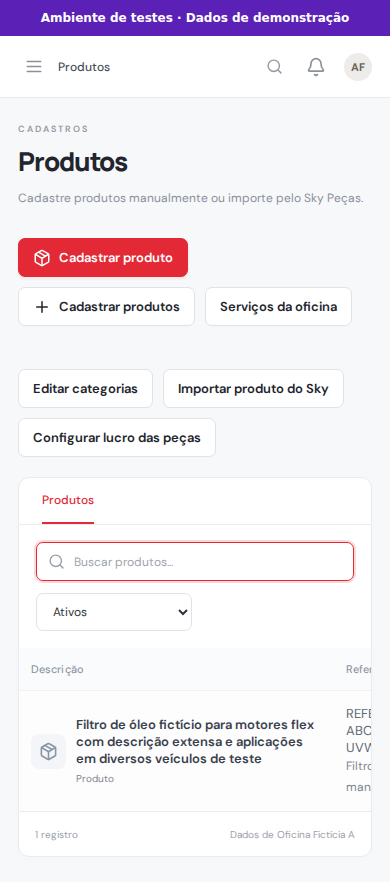
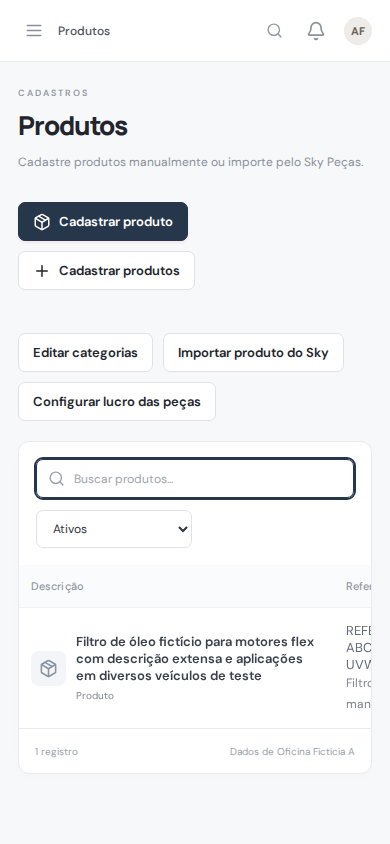
docs(products): update desktop and mobile interface captures

diff --git a/docs/mapeamento-visual/CHECKLIST.md b/docs/mapeamento-visual/CHECKLIST.md
@@ -27,7 +27,7 @@ Estados: capturada, pendente, bloqueada e não aplicável.
 | financeiro-caixa-historico | Financeiro | Histórico do caixa — Sem movimentos confirmados na demonstração. | [`capturas/08-financeiro/historico-caixa.png`](./capturas/08-financeiro/historico-caixa.png) | capturada | 2026-10-22 | não registrado | Captura real com dados fictícios feita em 22/10/2026. O commit de origem não foi registrado; recaptura Playwright e atualização do commit estão pendentes. |
 | financeiro-lucro-pecas | Financeiro | Lucro das peças — Relatório sem vendas no período demonstrado. | [`capturas/08-financeiro/lucro-pecas.png`](./capturas/08-financeiro/lucro-pecas.png) | capturada | 2026-10-22 | não registrado | Captura real com dados fictícios feita em 22/10/2026. O commit de origem não foi registrado; recaptura Playwright e atualização do commit estão pendentes. |
 | financeiro-lucro-servicos | Financeiro | Lucro dos serviços — Relatório sem vendas no período demonstrado. | [`capturas/08-financeiro/lucro-servicos.png`](./capturas/08-financeiro/lucro-servicos.png) | capturada | 2026-10-22 | não registrado | Captura real com dados fictícios feita em 22/10/2026. O commit de origem não foi registrado; recaptura Playwright e atualização do commit estão pendentes. |
-| cadastro-produtos | Cadastros e serviços | Produtos — Tabela de produtos com descrição e referência extensas; largura contida e rolagem interna em telas pequenas. Dados fictícios. | [`capturas/09-cadastros-servicos/produtos.png`](./capturas/09-cadastros-servicos/produtos.png) | capturada | 2026-11-01 | 7ee1fc0f725d2eb39e46c2f4c4c8d8feba33f739 | — |
+| cadastro-produtos | Cadastros e serviços | Produtos — Tela exclusiva de Produtos, sem botão de serviços nem aba redundante; tabela com produto fictício. | [`capturas/09-cadastros-servicos/produtos.png`](./capturas/09-cadastros-servicos/produtos.png) | capturada | 2026-11-01 | 4c93a82e27f05bc3112f1265b6313539b171b347 | — |
 | catalogo-tempos | Cadastros e serviços | Catálogo de tempos — Modelo e serviço fictícios disponíveis para consulta. | [`capturas/09-cadastros-servicos/catalogo-tempos.png`](./capturas/09-cadastros-servicos/catalogo-tempos.png) | capturada | 2026-10-30 | 3792b567510404220727ed26137e813eb84bc96e | — |
 | servico-modelo-ficticio | Cadastros e serviços | Serviços do modelo fictício — Serviço de demonstração e duração de referência. | [`capturas/09-cadastros-servicos/servicos-modelo-ficticio.png`](./capturas/09-cadastros-servicos/servicos-modelo-ficticio.png) | capturada | 2026-10-30 | 3792b567510404220727ed26137e813eb84bc96e | — |
 | servicos-oficina | Cadastros e serviços | Serviços particulares — Lista sem serviços próprios cadastrados. | [`capturas/09-cadastros-servicos/servicos-oficina.png`](./capturas/09-cadastros-servicos/servicos-oficina.png) | capturada | 2026-10-30 | 3792b567510404220727ed26137e813eb84bc96e | — |
@@ -61,7 +61,7 @@ Estados: capturada, pendente, bloqueada e não aplicável.
 | financeiro-caixa-historico-desktop | Financeiro | Histórico do caixa — Sem movimentos confirmados na demonstração. | `capturas/08-financeiro/historico-caixa-desktop.png` (previsto) | pendente | — | não registrado | Variante desktop ainda não foi gerada. Execute a captura Playwright em ambiente local de teste. |
 | financeiro-lucro-pecas-desktop | Financeiro | Lucro das peças — Relatório sem vendas no período demonstrado. | `capturas/08-financeiro/lucro-pecas-desktop.png` (previsto) | pendente | — | não registrado | Variante desktop ainda não foi gerada. Execute a captura Playwright em ambiente local de teste. |
 | financeiro-lucro-servicos-desktop | Financeiro | Lucro dos serviços — Relatório sem vendas no período demonstrado. | `capturas/08-financeiro/lucro-servicos-desktop.png` (previsto) | pendente | — | não registrado | Variante desktop ainda não foi gerada. Execute a captura Playwright em ambiente local de teste. |
-| cadastro-produtos-desktop | Cadastros e serviços | Produtos — Tabela de produtos com descrição e referência extensas; largura contida e rolagem interna em telas pequenas. Dados fictícios. | [`capturas/09-cadastros-servicos/produtos-desktop.png`](./capturas/09-cadastros-servicos/produtos-desktop.png) | capturada | 2026-11-01 | 7ee1fc0f725d2eb39e46c2f4c4c8d8feba33f739 | — |
+| cadastro-produtos-desktop | Cadastros e serviços | Produtos — Tela exclusiva de Produtos, sem botão de serviços nem aba redundante; tabela com produto fictício. | [`capturas/09-cadastros-servicos/produtos-desktop.png`](./capturas/09-cadastros-servicos/produtos-desktop.png) | capturada | 2026-11-01 | 4c93a82e27f05bc3112f1265b6313539b171b347 | — |
 | catalogo-tempos-desktop | Cadastros e serviços | Catálogo de tempos — Modelo e serviço fictícios disponíveis para consulta. | [`capturas/09-cadastros-servicos/catalogo-tempos-desktop.png`](./capturas/09-cadastros-servicos/catalogo-tempos-desktop.png) | capturada | 2026-10-30 | 3792b567510404220727ed26137e813eb84bc96e | — |
 | servico-modelo-ficticio-desktop | Cadastros e serviços | Serviços do modelo fictício — Serviço de demonstração e duração de referência. | [`capturas/09-cadastros-servicos/servicos-modelo-ficticio-desktop.png`](./capturas/09-cadastros-servicos/servicos-modelo-ficticio-desktop.png) | capturada | 2026-10-30 | 3792b567510404220727ed26137e813eb84bc96e | — |
 | servicos-oficina-desktop | Cadastros e serviços | Serviços particulares — Lista sem serviços próprios cadastrados. | [`capturas/09-cadastros-servicos/servicos-oficina-desktop.png`](./capturas/09-cadastros-servicos/servicos-oficina-desktop.png) | capturada | 2026-10-30 | 3792b567510404220727ed26137e813eb84bc96e | — |

diff --git a/docs/mapeamento-visual/INDEX.md b/docs/mapeamento-visual/INDEX.md
@@ -352,11 +352,11 @@ Produtos, serviços, profissionais e tempos.
 
 ### Produtos
 
-Tabela de produtos com descrição e referência extensas; largura contida e rolagem interna em telas pequenas. Dados fictícios.
+Tela exclusiva de Produtos, sem botão de serviços nem aba redundante; tabela com produto fictício.
 
 [![Produtos](./capturas/09-cadastros-servicos/produtos.png)](./capturas/09-cadastros-servicos/produtos.png)
 
-Estado: capturada · mobile · captura 2026-11-01 · commit de origem: 7ee1fc0f725d2eb39e46c2f4c4c8d8feba33f739 · [arquivo completo](./capturas/09-cadastros-servicos/produtos.png)
+Estado: capturada · mobile · captura 2026-11-01 · commit de origem: 4c93a82e27f05bc3112f1265b6313539b171b347 · [arquivo completo](./capturas/09-cadastros-servicos/produtos.png)
 
 ### Catálogo de tempos
 
@@ -392,11 +392,11 @@ Estado: capturada · mobile · captura 2026-10-22 · commit de origem: não regi
 
 ### Produtos
 
-Tabela de produtos com descrição e referência extensas; largura contida e rolagem interna em telas pequenas. Dados fictícios.
+Tela exclusiva de Produtos, sem botão de serviços nem aba redundante; tabela com produto fictício.
 
 [![Produtos](./capturas/09-cadastros-servicos/produtos-desktop.png)](./capturas/09-cadastros-servicos/produtos-desktop.png)
 
-Estado: capturada · desktop · captura 2026-11-01 · commit de origem: 7ee1fc0f725d2eb39e46c2f4c4c8d8feba33f739 · [arquivo completo](./capturas/09-cadastros-servicos/produtos-desktop.png)
+Estado: capturada · desktop · captura 2026-11-01 · commit de origem: 4c93a82e27f05bc3112f1265b6313539b171b347 · [arquivo completo](./capturas/09-cadastros-servicos/produtos-desktop.png)
 
 ### Catálogo de tempos
 
